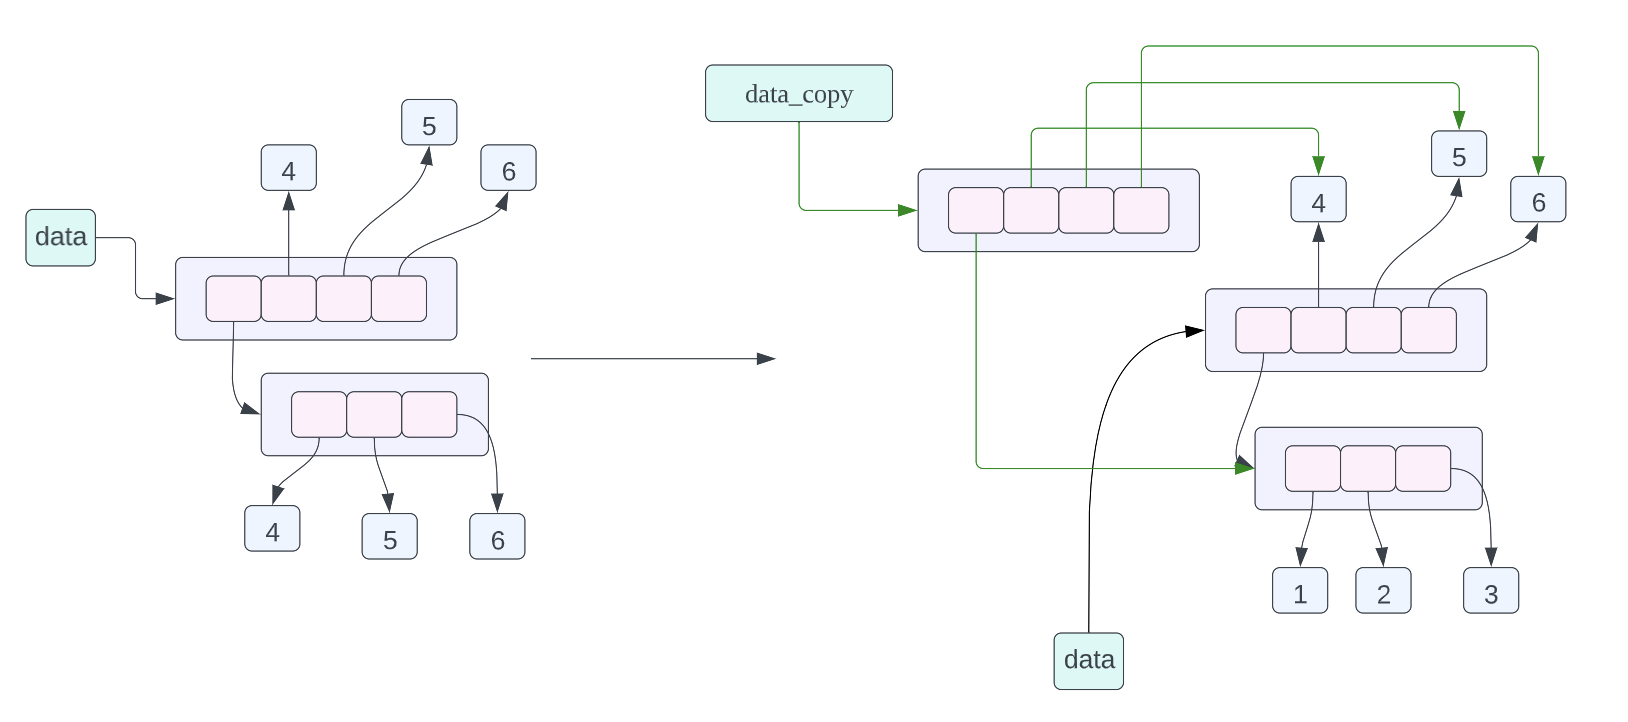
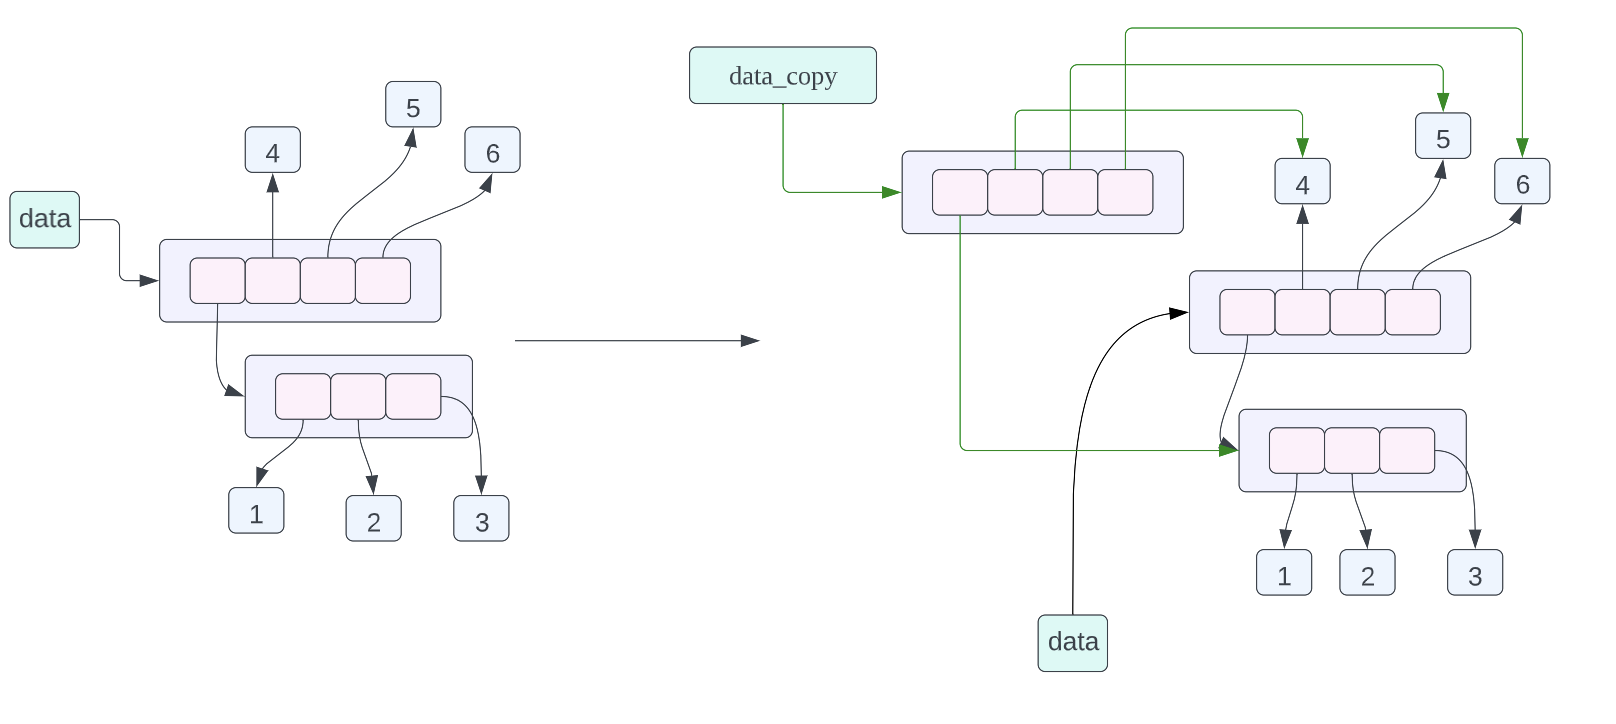
update python shallow and deep copy

diff --git a/pl/python/misc/01copy.md b/pl/python/misc/01copy.md
@@ -1,4 +1,4 @@
-# 深入理解 Python 的对象拷贝
+# 深入理解 Python 的对象拷贝和内存布局
 
 ## 前言
 
@@ -98,6 +98,9 @@ data_copy = data.copy()
 ![01](../../../images/python/05.png)
 
 ![01](../../../images/python/06.png)
+
+- `data_assign = data`，关于这个赋值语句的内存布局我们在之前已经谈到过了，不过我们也在复习一下，这个赋值语句的含义就是 data_assign 和 data 指向的数据是同一个数据，也就是同一个列表。
+- `data_copy = data.copy()`，这条赋值语句的含义是将 data 指向的数据进行浅拷贝，然后让 data_copy 指向拷贝之后的数据，这里的浅拷贝的意思就是，对列表当中的每一个指针进行拷贝，而不对列表当中指针指向的数据进行拷贝。从上面的对象的内存布局图我们可以看到 data_copy 指向一个新的列表，但是列表当中的指针指向的数据和 data 列表当中的指针指向的数据是一样的，其中 data_copy 使用绿色的箭头进行表示，data 使用黑色的箭头进行表示。
 
 ## 撕开 Python 对象的神秘面纱
 
